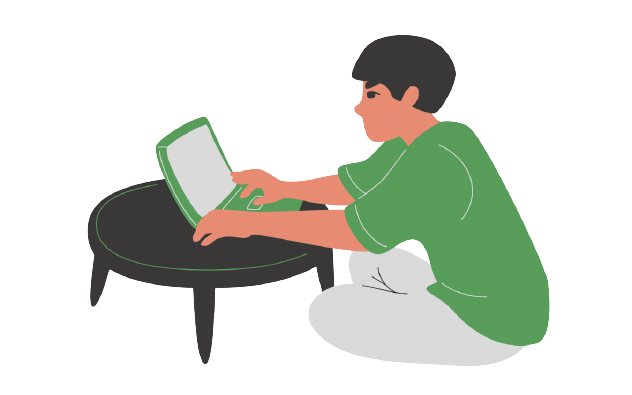
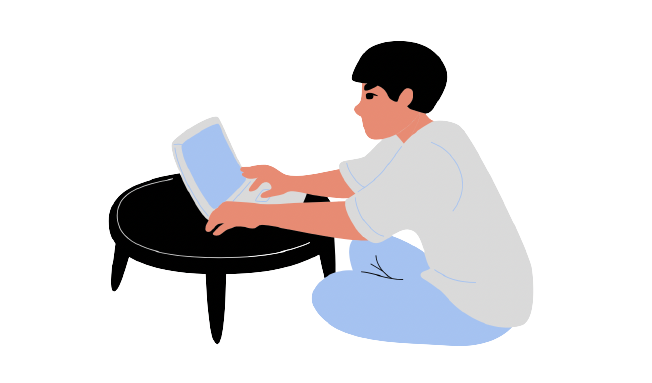
Change color theme

Changed region(s): [[0.1203, 0.0862, 0.8718, 0.9478], [0.4209, 0.4308, 0.4509, 0.4595]]

diff --git a/index.html b/index.html
@@ -12,8 +12,8 @@
     <link href="https://fonts.googleapis.com/css2?family=Caveat:wght@400;700&display=swap" rel="stylesheet">
     <title>Document</title>
 </head>
-<body>
-    <nav class="navbar navbar-expand-sm navbar-dark" style="background-color: #3c9e52;">
+<body style="background-color: #ffdbac">
+    <nav class="navbar navbar-expand-sm navbar-light" style="background-color:#ffdbac;">
         <a class="navbar-brand px-3" href="#" id="pageOwner">
             James Gan
           </a>

diff --git a/app.css b/app.css
@@ -1,3 +1,11 @@
+body {
+    background-color: #3c9e52;
+}
+
+.custom-toggler.navbar-toggler {
+    border-color: red;
+  } 
+
 #pageOwner {
     font-family: 'Lato';
     font-size: 22px;
